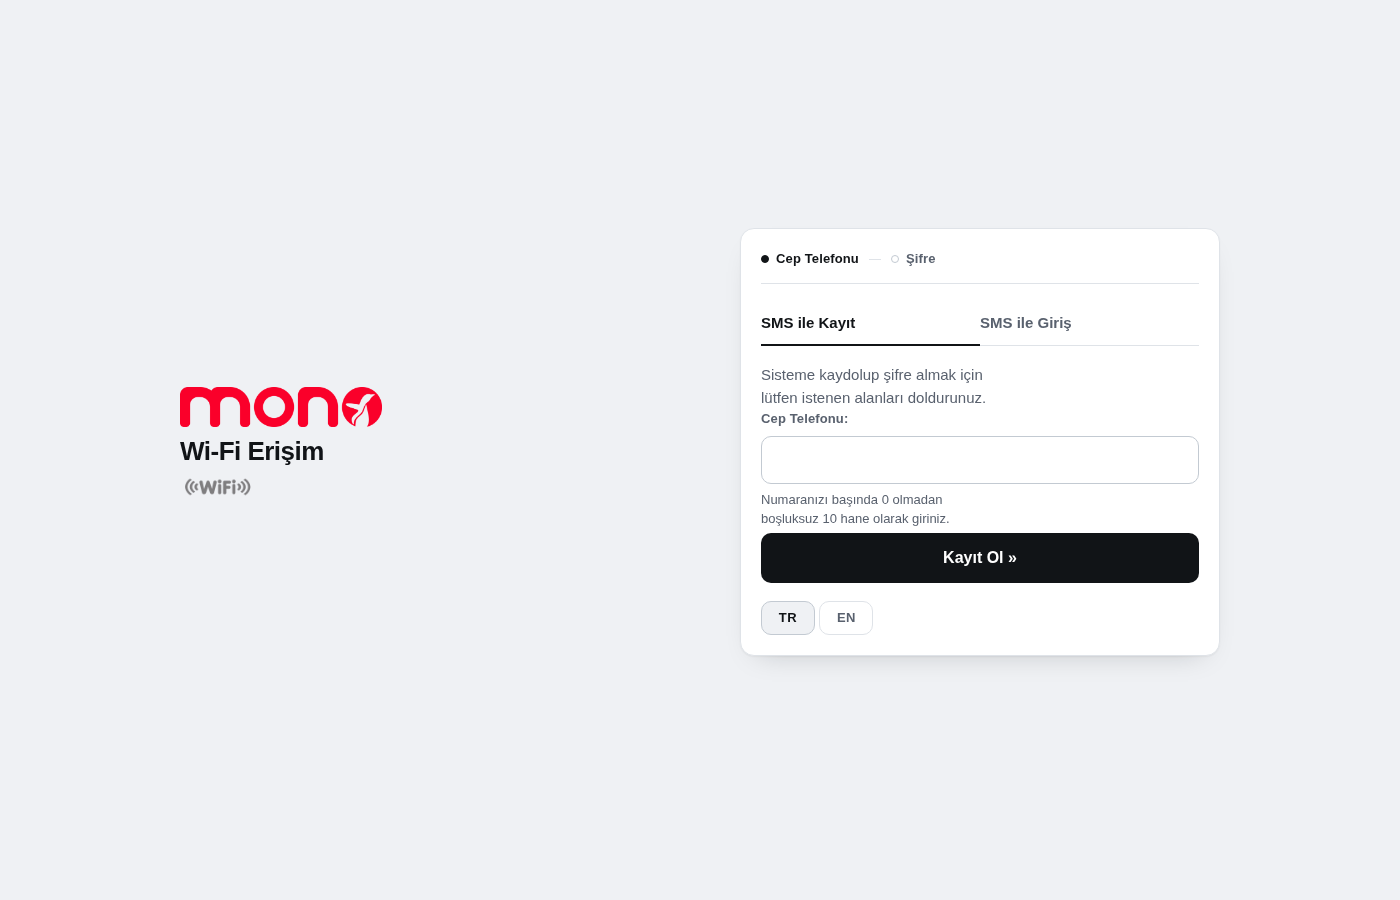
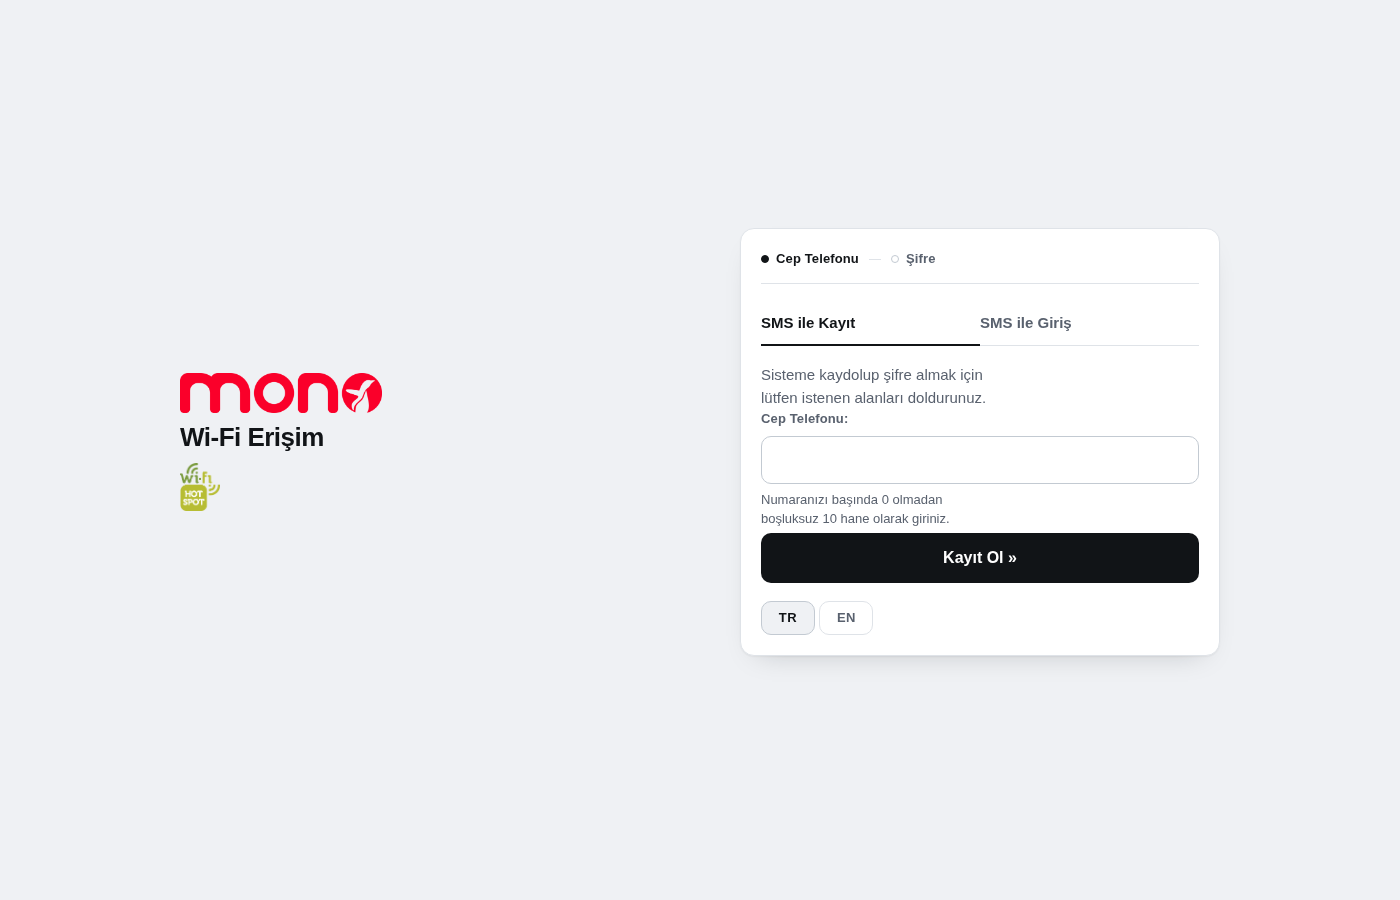
Use the supplied Wi-Fi Hotspot mark in the portal

Changed region(s): [[0.1229, 0.4044, 0.2764, 0.5911]]

diff --git a/net/monospot/src/opnsense/scripts/monospot/app/assets/css/captiveportal-style.css b/net/monospot/src/opnsense/scripts/monospot/app/assets/css/captiveportal-style.css
@@ -122,11 +122,14 @@ button {
 	align-items: center;
 }
 
+/*
+ * Wi-Fi Hotspot rozeti: Wi-Fi Alliance'ın resmi işareti olduğu gibi kullanılır —
+ * yeniden renklendirilmez, soluklaştırılmaz, yalnız ölçeklenir.
+ */
 #wifi-logo img {
 	display: block;
-	height: 18px;
+	height: 56px;
 	width: auto;
-	opacity: 0.55;
 }
 
 /* ---------- kart -------------------------------------------------------- */
@@ -531,7 +534,7 @@ input.submit.busy {
 	}
 
 	#wifi-logo img {
-		height: 20px;
+		height: 48px;
 	}
 
 	#container {

diff --git a/net/monospot/src/opnsense/scripts/monospot/app/views/layouts/captiveportal.html.php b/net/monospot/src/opnsense/scripts/monospot/app/views/layouts/captiveportal.html.php
@@ -51,7 +51,7 @@
     </div>
     <div id="title"><?= $title ?></div>
     <div id="wifi-logo">
-        <img src="<?= $hotspot['_assets'] ?>/img/captiveportal-wifi.png" alt="">
+        <img src="<?= $hotspot['_assets'] ?>/img/wifi-hotspot.png" alt="Wi-Fi Hotspot">
     </div>
 </header>
 
